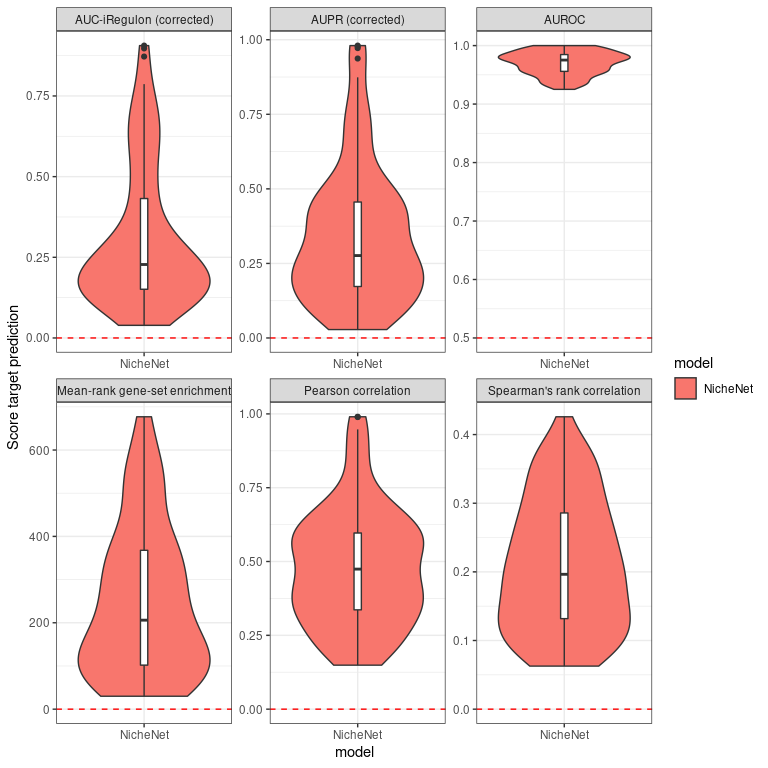
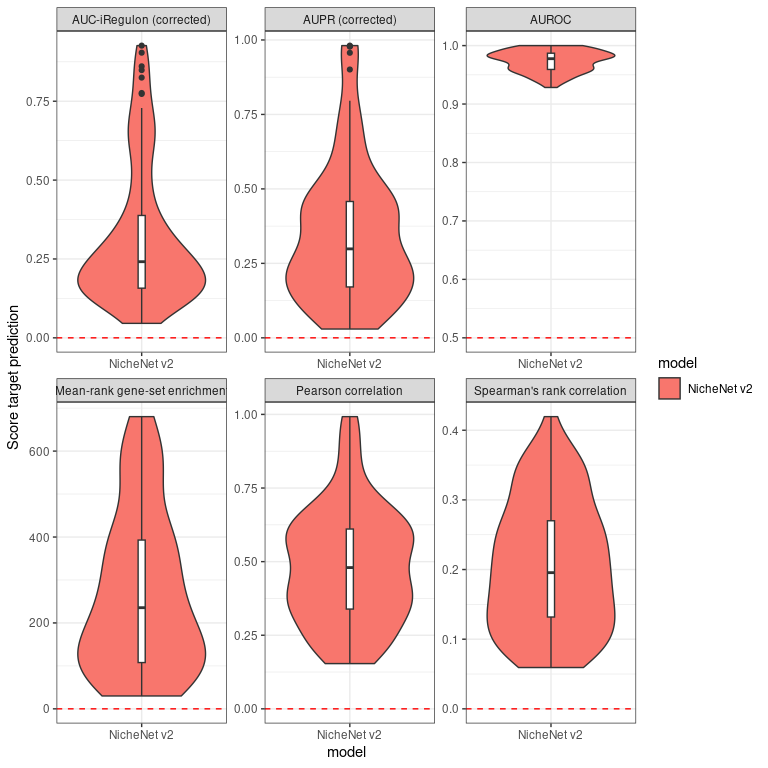
update model

diff --git a/vignettes/model_evaluation.md b/vignettes/model_evaluation.md
@@ -16,9 +16,14 @@ addition of the ligand(s). Hence, differentially expressed genes can be
 considered as a gold standard of target genes of a particular ligand.
 
 You can use the procedure shown here to evaluate your own model and
-compare its performance to NicheNet. Ligand treatment validation
-datasets and NicheNet’s ligand-target model can be downloaded from
-Zenodo
+compare its performance to NicheNet. In NicheNet v2, we added more
+ligand treatment validation datasets from CytoSig.We will also
+demonstrate the better performance of NicheNet v2’s ligand-target
+matrix.
+
+# To change
+
+and NicheNet’s ligand-target model can be downloaded from Zenodo
 [![DOI](https://zenodo.org/badge/DOI/10.5281/zenodo.3260758.svg)](https://doi.org/10.5281/zenodo.3260758).
 
 ### Load nichenetr, the model we want to evaluate, and the datasets on which we want to evaluate it.
@@ -28,20 +33,26 @@ library(nichenetr)
 library(tidyverse)
 
 # Load in the ligand-target model
-ligand_target_matrix = readRDS(url("https://zenodo.org/record/3260758/files/ligand_target_matrix.rds"))
+#ligand_target_matrix_v1 = readRDS(url("https://zenodo.org/record/3260758/files/ligand_target_matrix.rds"))
+#ligand_target_matrix_v2 = readRDS(url("https://zenodo.org/record/7074291/files/ligand_target_matrix_nsga2r_final.rds"))
+ligand_target_matrix_v1 = readRDS("~/Documents/nichenet/nichenet_files/ligand_target_matrix.rds")
+ligand_target_matrix_v2 = readRDS("~/Documents/nichenet/multinichenet_files/ligand_target_matrix_nsga2r_final.rds")
 
 # The ligand treatment expression datasets used for validation can be downloaded from Zenodo:
-expression_settings_validation = readRDS(url("https://zenodo.org/record/3260758/files/expression_settings.rds"))
+expression_settings_validation = readRDS(url("https://zenodo.org/record/8010790/files/expression_settings"))
+cytosig_settings = readRDS(url("https://zenodo.org/record/8010790/files/cytosig_signatures_settings_loose")) # new evaluation dataset
 
 #Ligand treatment datasets show the log fold change in expression of genes after treatment with one or more specific ligands. Here: example for the ligand NODAL:
 head(expression_settings_validation$nodal_Nodal$diffexp)
-##            lfc       qval   gene
-## 1 -0.072591381 0.03767323  BEST1
-## 2 -0.133032792 0.62838239 SMIM37
-## 3 -0.001152079 0.98974906  CRADD
-## 4 -0.018723210 0.63536958  RCAN2
-## 5 -0.070250368 0.36418916 MFAP3L
-## 6 -0.192244949 0.23454428   PARL
+## # A tibble: 6 × 3
+##     lfc     qval gene  
+##   <dbl>    <dbl> <chr> 
+## 1 -4.44 5.33e-15 IGFBP5
+## 2 -4.03 6.58e-16 NID1  
+## 3 -3.97 1.96e-17 CLPS  
+## 4  3.95 1.97e-15 CLDN6 
+## 5  3.45 1.07e-18 GPC3  
+## 6  3.20 1.16e-16 CLIC6
 ```
 
 ### Example: transcriptional response prediction evaluation
@@ -64,8 +75,7 @@ ligand-target model](model_construction.md):
 `vignette("model_construction", package="nichenetr")`.
 
 Step 1: convert expression datasets to the required format to perform
-target gene
-prediction
+target gene prediction
 
 ``` r
 settings = expression_settings_validation %>% lapply(convert_expression_settings_evaluation)
@@ -76,21 +86,21 @@ Step 2: calculate the target gene prediction performances
 
 ``` r
 # Evaluate transcriptional response prediction on every dataset
-performances = settings %>% lapply(evaluate_target_prediction, ligand_target_matrix) %>% bind_rows()
+performances = settings %>% lapply(evaluate_target_prediction, ligand_target_matrix_v2) %>% bind_rows()
 ```
 
 Step 3: visualize the results: show here different classification
-evaluation
-metrics
+evaluation metrics
 
 ``` r
 # Visualize some classification evaluation metrics showing the target gene prediction performance
 performances = performances %>% select(-aupr, -auc_iregulon,-pearson_log_pval,-spearman_log_pval ,-sensitivity_roc, -specificity_roc) %>% gather(key = scorename, value = scorevalue, auroc:spearman)
+
 scorelabels = c(auroc="AUROC", aupr_corrected="AUPR (corrected)", auc_iregulon_corrected = "AUC-iRegulon (corrected)",pearson = "Pearson correlation", spearman = "Spearman's rank correlation",mean_rank_GST_log_pval = "Mean-rank gene-set enrichment")
 scorerandom = c(auroc=0.5, aupr_corrected=0, auc_iregulon_corrected = 0, pearson = 0, spearman = 0,mean_rank_GST_log_pval = 0) %>% data.frame(scorevalue=.) %>% rownames_to_column("scorename")
 
 performances %>%
-  mutate(model = "NicheNet") %>%
+  mutate(model = "NicheNet v2") %>%
   ggplot() +
   geom_violin(aes(model, scorevalue, group=model, fill = model)) +
   geom_boxplot(aes(model, scorevalue, group = model),width = 0.05) +
@@ -101,6 +111,60 @@ performances %>%
 ```
 
 ![](model_evaluation_files/figure-gfm/unnamed-chunk-4-1.png)<!-- -->
+
+We will now compare performances between NicheNet v1 and v2 on both
+ligand treatment datasets. Note that although the performance of v2 is
+much better here, the CytoSig experiments were also included during
+model construction of v2. To get the results in the paper, you will have
+to follow the `model_construction.Rmd` vignette and filter out the
+CytoSig data sources during model construction.
+
+``` r
+
+performances_df <- lapply(c("nichenet_gs", "cytosig_gs"), function(gs) {
+  
+  # Choose 'settings' based on type of gold standard
+  if (gs == "nichenet_gs") {
+    settings = expression_settings_validation %>% lapply(convert_expression_settings_evaluation)
+    settings = settings %>% discard(~length(.$from) > 1)
+  } else {
+    settings = cytosig_settings
+  }
+  
+  lapply(c("v1", "v2"), function(ver){
+    # Get the ligand_target_matrix according to the version, Evaluate transcriptional response prediction on every dataset
+    # 
+    performances = settings %>% lapply(evaluate_target_prediction, get(paste0("ligand_target_matrix_", ver))) %>% bind_rows()
+  
+    # Select some classification evaluation metrics showing the target gene prediction performance
+    performances = performances %>% select(-aupr, -auc_iregulon,-pearson_log_pval,-spearman_log_pval ,-sensitivity_roc, -specificity_roc) %>%
+      pivot_longer(auroc:spearman, names_to = "scorename", values_to = "scorevalue") %>% mutate(dataset = gs, version = ver)
+  
+  }) %>% do.call(rbind, .)
+}) %>% do.call(rbind, .)
+
+
+scorelabels = str_wrap(c("AUROC", "AUPR (corrected)", "Mean-rank gene-set enrichment", "AUC-iRegulon (corrected)","Pearson correlation", "Spearman's rank correlation"), width=10) %>%
+  setNames(performances$scorename %>% unique)
+scorerandom = c(auroc=0.5, aupr_corrected=0, auc_iregulon_corrected = 0, pearson = 0, spearman = 0,mean_rank_GST_log_pval = 0) %>% data.frame(scorevalue=.) %>% rownames_to_column("scorename")
+
+ggplot(performances_df, aes(y=scorevalue, x=version)) +
+  geom_violin(aes(fill=version)) +
+  geom_boxplot(width = 0.05) +
+  labs(y="Target prediction score", x="NicheNet version") +
+  facet_grid(scorename~dataset, scales = "free",
+             labeller=labeller(scorename=scorelabels,
+                               dataset=c(cytosig_gs="CytoSig datasets", nichenet_gs="NicheNet datasets"))) +
+  geom_hline(aes(yintercept=scorevalue), data=scorerandom, linetype = 2, linewidth=0.2, color = "red") +
+  theme_bw() +
+  theme(strip.text.y = element_text(angle=0),
+        strip.background.x = element_blank(),
+        strip.background.y = element_rect(fill="white"),
+        panel.grid.major = element_blank(),
+        legend.position = "none")
+```
+
+![](model_evaluation_files/figure-gfm/unnamed-chunk-5-1.png)<!-- -->
 
 ### Example: ligand activity prediction evaluation
 
@@ -118,26 +182,26 @@ ligand activity scores as should be for a good ligand-target model.
 
 A graphical summary of this procedure is visualized here below:
 
-![](vignettes/ligand_activity_prediction_workflow_new.png)
+![](ligand_activity_prediction_workflow_new.png)
 
 Step 1: convert expression datasets to the required format to perform
-ligand activity
-prediction
+ligand activity prediction
 
 ``` r
 # convert expression datasets to correct format for ligand activity prediction
+settings = expression_settings_validation %>% lapply(convert_expression_settings_evaluation)
+settings = settings %>% discard(~length(.$from) > 1)
 all_ligands = settings %>% extract_ligands_from_settings(combination = FALSE) %>% unlist()
 settings_ligand_prediction = settings %>% convert_settings_ligand_prediction(all_ligands = all_ligands, validation = TRUE)
 ```
 
 Step 2: calculate the ligand importances (these are classification
 evaluation metrics indicating how well a ligand can predict the observed
-DE genes in a specific ligand treatment
-dataset)
+DE genes in a specific ligand treatment dataset)
 
 ``` r
 # infer ligand importances: for all ligands of interest, we assess how well a ligand explains the differential expression in a specific datasets (and we do this for all datasets).
-ligand_importances = settings_ligand_prediction %>% lapply(get_single_ligand_importances,ligand_target_matrix) %>% bind_rows()
+ligand_importances = settings_ligand_prediction %>% lapply(get_single_ligand_importances,ligand_target_matrix_v2) %>% bind_rows()
 ```
 
 Step 3: evaluate how separate ligand importances can predict ligand
@@ -145,14 +209,17 @@ activity
 
 ``` r
 # Look at predictive performance of single/individual importance measures to predict ligand activity: of all ligands tested, the ligand that is truly active in a dataset should get the highest activity score (i.e. best target gene prediction performance)
+
+# Replace infinite values with 10000
+ligand_importances = ligand_importances %>% mutate(across(ends_with("log_pval"), ~ifelse(is.infinite(.x), 10000, .x)))
+
 evaluation_ligand_prediction = ligand_importances$setting %>% unique() %>% lapply(function(x){x}) %>%
     lapply(wrapper_evaluate_single_importances_ligand_prediction,ligand_importances) %>%
     bind_rows() %>% inner_join(ligand_importances %>% distinct(setting,ligand))
 ```
 
 Step 4: visualize the results: show here different classification
-evaluation
-metrics
+evaluation metrics
 
 ``` r
 # Visualize some classification evaluation metrics showing the ligand activity prediction performance
@@ -173,8 +240,74 @@ evaluation_ligand_prediction %>%
   theme(axis.text.x = element_text(angle = 90))
 ```
 
-![](model_evaluation_files/figure-gfm/unnamed-chunk-8-1.png)<!-- -->
+![](model_evaluation_files/figure-gfm/unnamed-chunk-9-1.png)<!-- -->
 
-This plots shows that using the pearson correlation coefficient target
-prediction metric is the best metric to use for ranking ligands
-according to predicted ligand activity.
+We will again compare performances between NicheNet v1 and v2 on both
+ligand treatment datasets.
+
+``` r
+
+performances_df <- lapply(c("nichenet_gs", "cytosig_gs"), function(gs) {
+  
+  # Choose 'settings' based on type of gold standard
+  if (gs == "nichenet_gs") {
+    settings = expression_settings_validation %>% lapply(convert_expression_settings_evaluation)
+    settings = settings %>% discard(~length(.$from) > 1)
+  } else {
+    settings = cytosig_settings
+  }
+  
+  all_ligands = settings %>% extract_ligands_from_settings(combination = FALSE) %>% unlist()
+  settings_ligand_prediction = settings %>% convert_settings_ligand_prediction(all_ligands = all_ligands, validation = TRUE)
+  
+  lapply(c("v1", "v2"), function(ver){
+    
+    # Look at predictive performance of single/individual importance measures to predict ligand activity: of all ligands tested,
+    # the ligand that is truly active in a dataset should get the highest activity score (i.e. best target gene prediction performance)
+    # infer ligand importances: for all ligands of interest, we assess how well a ligand explains the differential expression in a specific datasets (and we do this for all datasets).
+    ligand_importances = settings_ligand_prediction %>% lapply(get_single_ligand_importances, get(paste0("ligand_target_matrix_", ver))) %>% bind_rows()
+    
+    # Filter out column with infinite values
+    ligand_importances = ligand_importances %>% mutate(across(ends_with("log_pval"), ~ifelse(is.infinite(.x), 10000, .x)))
+
+    evaluation_ligand_prediction = ligand_importances$setting %>% unique() %>% lapply(function(x){x}) %>%
+      lapply(wrapper_evaluate_single_importances_ligand_prediction,ligand_importances) %>%
+      bind_rows() %>% inner_join(ligand_importances %>% distinct(setting,ligand))
+
+    # Select some classification evaluation metrics showing the ligand activity prediction performance
+    evaluation_ligand_prediction %>% select(-aupr, -sensitivity_roc, -specificity_roc, -pearson, -spearman, -mean_rank_GST_log_pval) %>% pivot_longer(auroc:aupr_corrected, names_to = "scorename", values_to = "scorevalue") %>% mutate(dataset = gs, version = ver)
+  
+  }) %>% do.call(rbind, .)
+}) %>% do.call(rbind, .)
+```
+
+``` r
+scorelabels = str_wrap(c("AUROC", "AUPR", "AUPR     (corrected)", "Sensitivity ROC", "Specificity ROC",
+                         "Mean-rank gene-set enrichment", "AUC-iRegulon", "AUC-iRegulon (corrected)",
+                        "Pearson log p-val", "Spearman log p-val", "Pearson correlation", "Spearman's rank correlation"), width=15) %>% setNames(performances_df$importance_measure %>% unique)
+scorerandom = c(auroc=0.5, aupr_corrected=0) %>% data.frame(scorevalue=.) %>% rownames_to_column("scorename")
+
+ggplot(performances_df %>% filter(importance_measure %in%
+                                                 c("auroc", "aupr_corrected", "mean_rank_GST_log_pval",
+                                                   "auc_iregulon_corrected", "pearson", "spearman")),
+                                               aes(y=scorevalue, x=version, color=importance_measure, group=interaction(importance_measure, version))) +
+  geom_violin(position=position_dodge(0.75)) +
+  geom_boxplot(width = 0.05, position=position_dodge(0.75)) +
+  scale_x_discrete(guide = guide_axis(angle = 30)) +
+  scale_fill_discrete(labels=scorelabels) +
+  guides(color="none") +
+  labs(y="Evaluation ligand activity prediction", x="Ligand activity measure for two NicheNet versions",
+       fill = "Importance\nmeasure") +
+  facet_grid(scorename~dataset, scales = "free",
+             labeller=labeller(scorename=scorelabels,
+                               dataset=c(cytosig_gs="CytoSig datasets", nichenet_gs="NicheNet datasets"))) +
+  geom_hline(aes(yintercept=scorevalue), data=scorerandom, linetype = 2, linewidth=0.2, color = "red") +
+  theme_bw() +
+  theme(strip.text.y = element_text(angle=0),
+        strip.background.x = element_blank(),
+        strip.background.y = element_rect(fill="white"),
+        panel.grid.major = element_blank(),
+        legend.position = "bottom")
+```
+
+![](model_evaluation_files/figure-gfm/unnamed-chunk-11-1.png)<!-- -->
